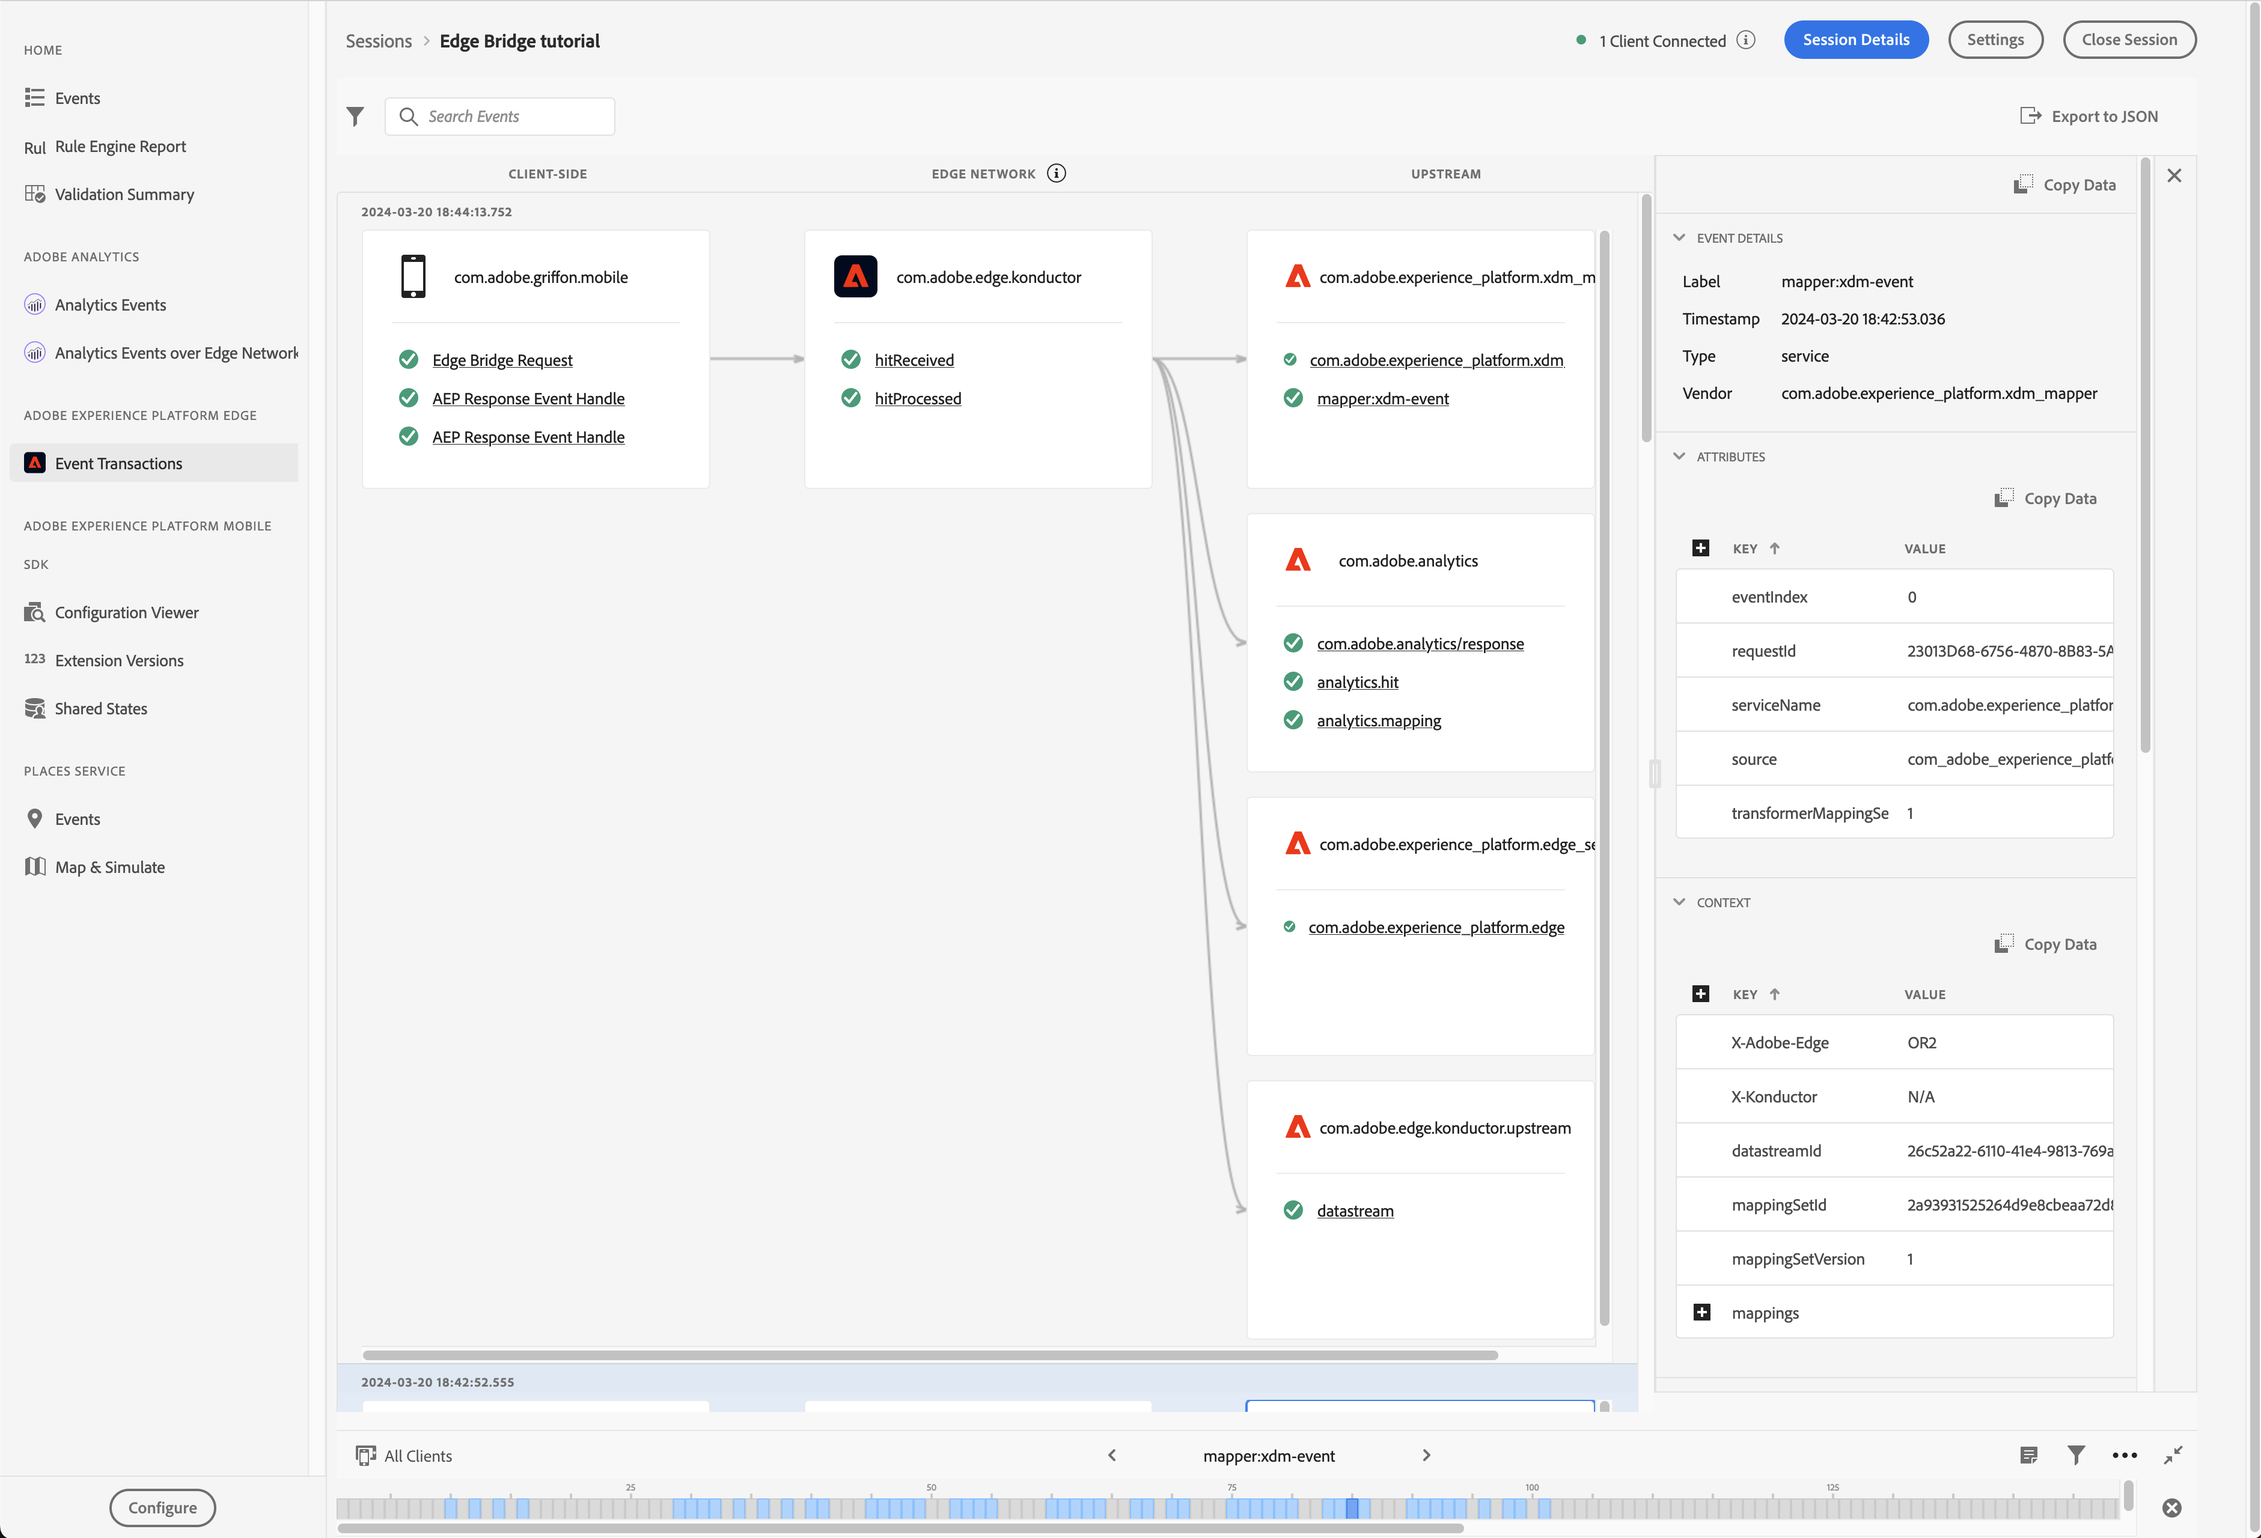
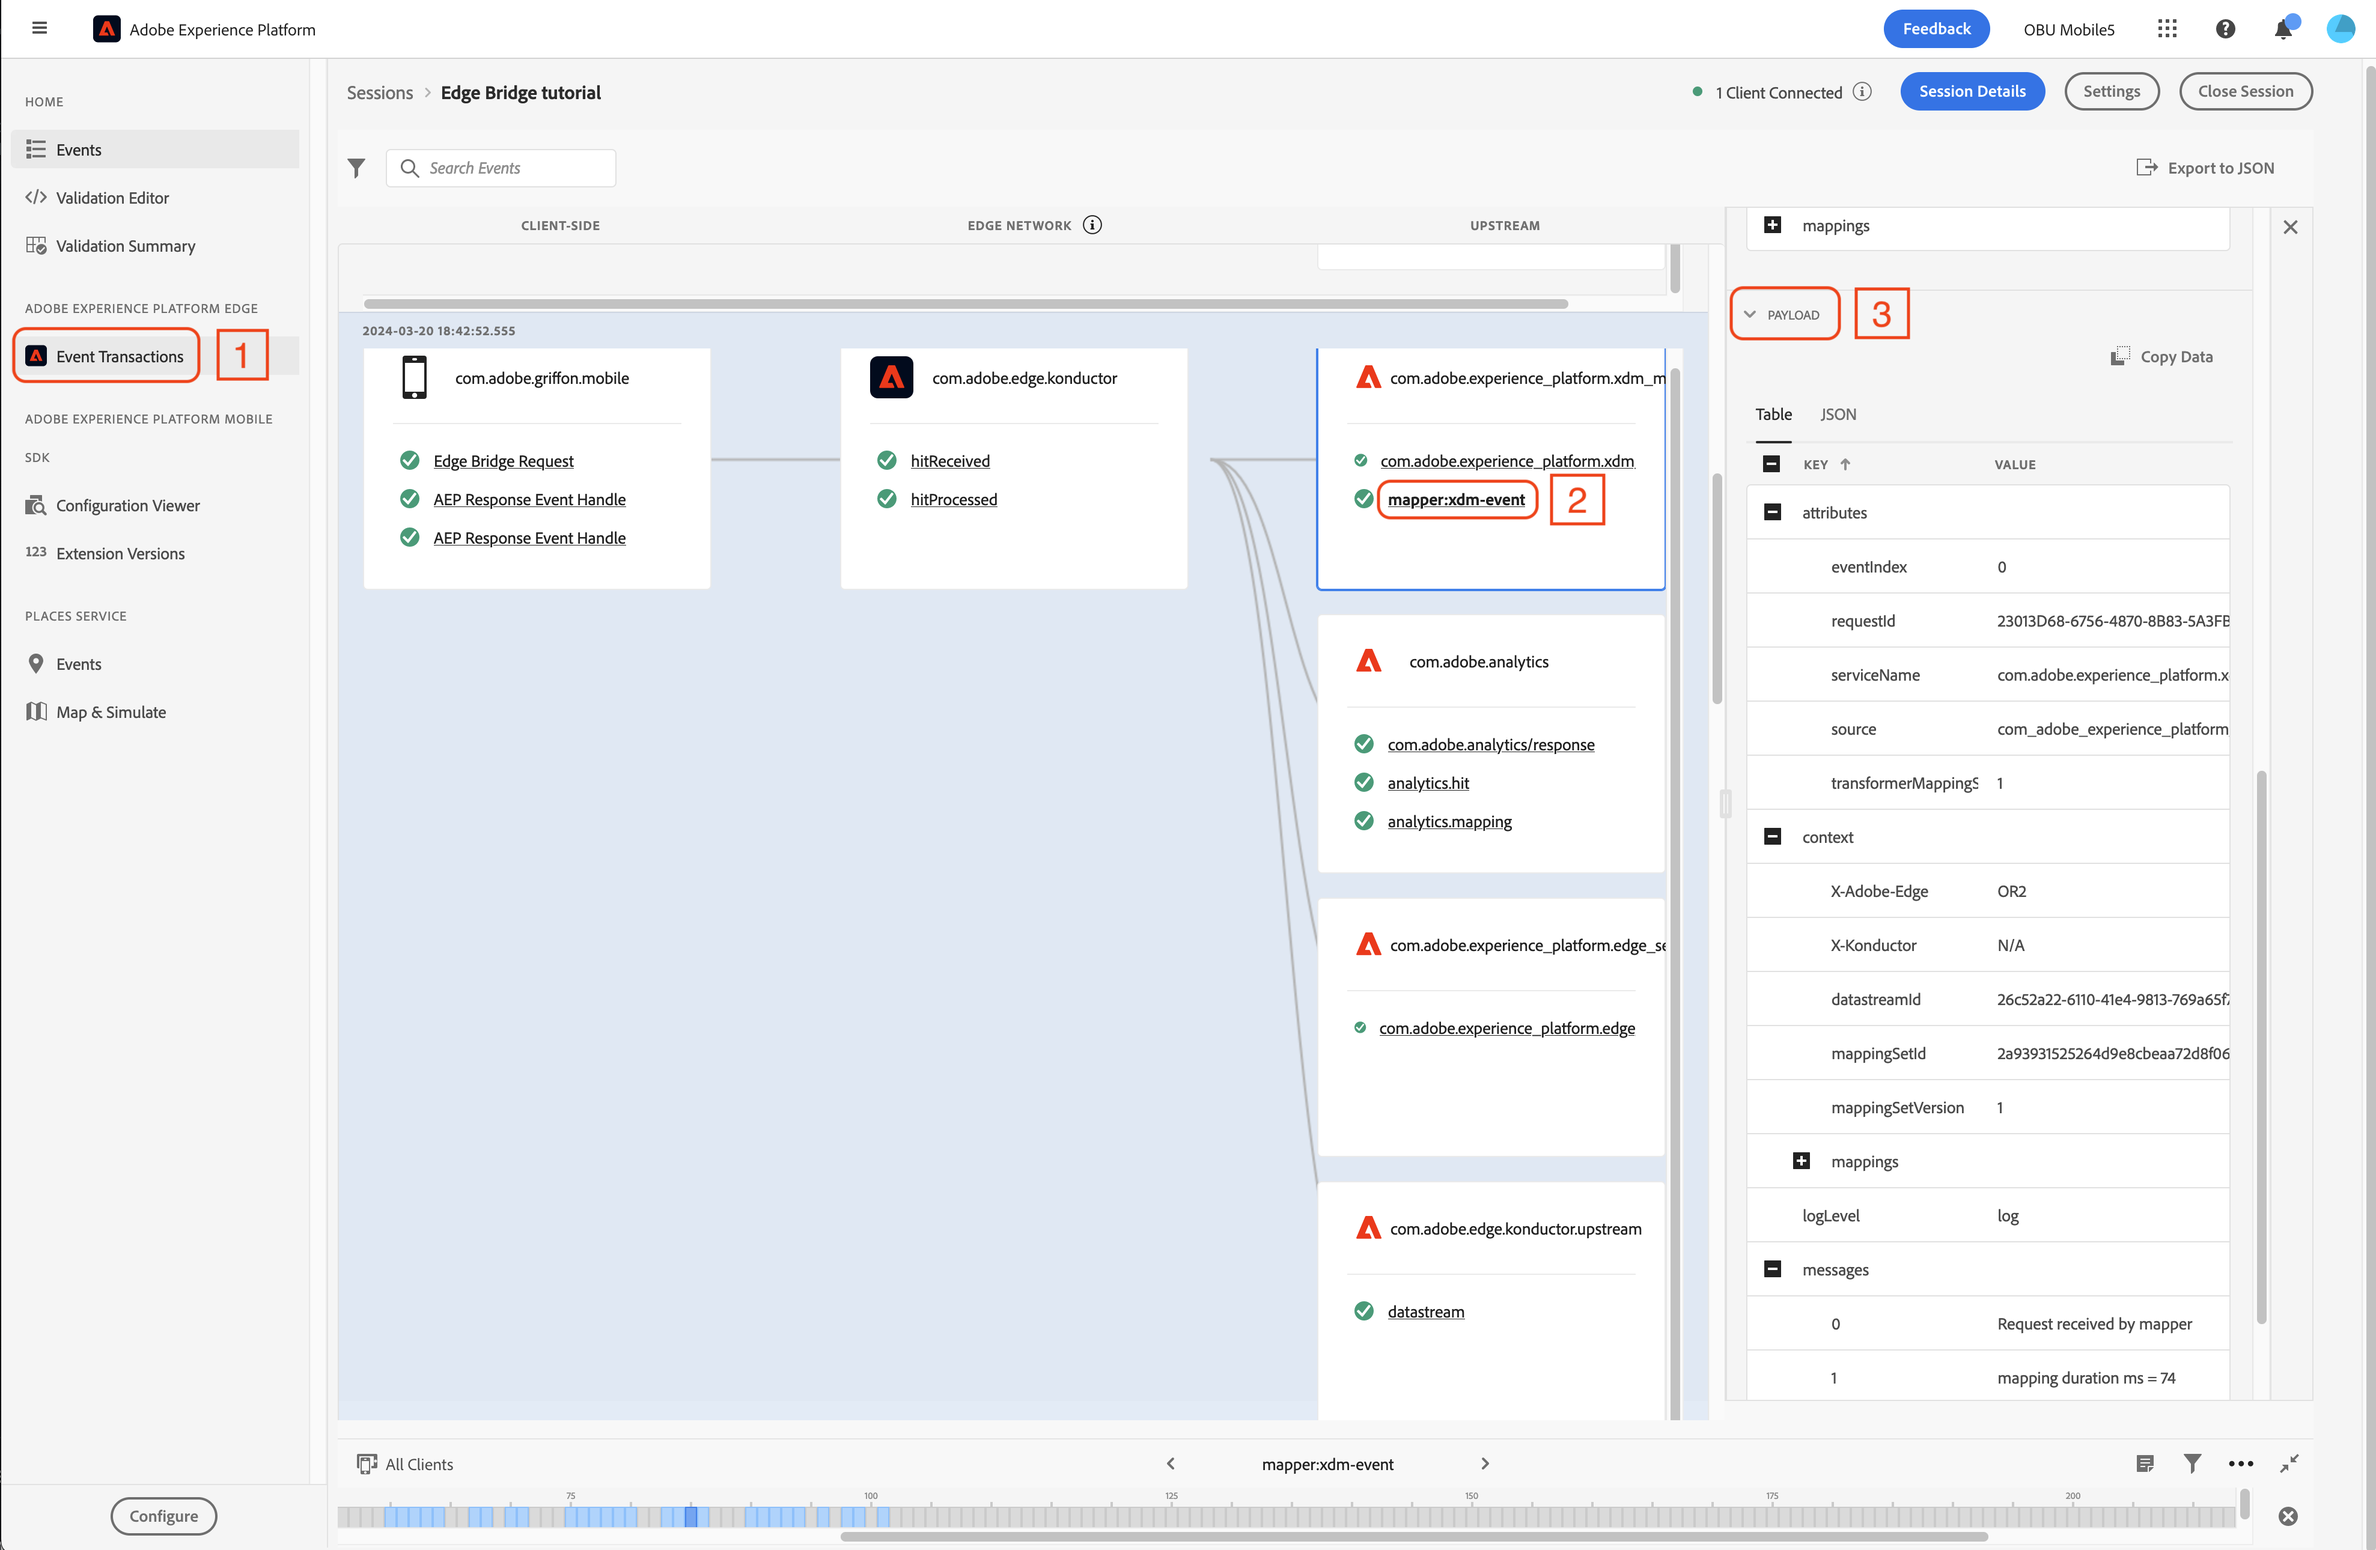
Update data prep assurance validation instructions and images
Update mapping use case steps

diff --git a/Documentation/tutorials/edge-bridge-tutorial.md b/Documentation/tutorials/edge-bridge-tutorial.md
@@ -319,10 +319,9 @@ To open the Data Prep mapper:
 > [!IMPORTANT]
 > Data Prep allows only one consolidated mapping configuration per datastream, meaning all potential event payloads sent through a specific datastream must be merged for simultaneous mapping. Note that Data Prep requires `data` and `xdm` to be top-level objects in the source JSON.
 
-We will cover 3 mapping use cases:
-1. Analytics-formatted product strings
-2. Analytics-formatted events strings
-3. Custom `contextData` keys
+We will cover two mapping use cases:
+1. Custom `contextData` keys.
+2. Using Data Prep Analytics functions to map Analytics-formatted strings, such as `products` and `events`.
 
 The properties from `trackAction` and `trackState` events in the tutorial app must be combined into a single JSON. For simplicity, the merged data structure is provided below:
 
@@ -457,6 +456,8 @@ After creating the desired mappings, select **Save** in the top right.
 
 After creating the desired mappings, select **Save** in the top right.
 
+See the documentation on the [Analytics functions](https://experienceleague.adobe.com/en/docs/experience-platform/data-prep/functions#analytics) for the full list of Data Prep Analytics functions.
+
 ## Validating Data Prep mapping using Assurance
 Now that the mapping is set up in the datastream, we have the full pathway of data:
 
@@ -465,9 +466,12 @@ graph LR;
     step1(App<br/>Analytics track events) --> step2(App<br/>Edge Bridge conversion to Edge event) --> step3(Edge Network<br/>Datastream mapping of event data to XDM) --> step4(Edge Network<br/>Upstream solutions);
 ```
 
-By using the **Event Transactions** view in the left-side navigation panel, the logical flow of events from the event dispatched by the `trackAction` API -> data mapping can be seen.
+By using the **Event Transactions** view (**1**) in the left-side navigation panel, you can follow the logical flow of events from the event dispatched by the `trackAction` API to data mapping.  
+1. Select the Data Prep mapping event **mapper:xdm-event** (**2**) to see the event details in the right-side information panel.
+2. Under the **PAYLOAD** section (**3**), you can explore the event payload data.
+
 <img src="../assets/edge-bridge-tutorial/assurance-validation/assurance-event-transactions.png" alt="Assurance Event Transactions" width="1100"/>  
 
-Back in the Events view, the **mapper:xdm-event** (**1**) shows the result of the mapping from the Edge Bridge event's data to the XDM schema format (**2**).
+To see the data in JSON format, select the **JSON** tab (**1**). You can view the event data in JSON format below (**2**).
 <img src="../assets/edge-bridge-tutorial/assurance-validation/assurance-mapper-event.png" alt="Assurance mapper event" width="1100"/>  
 
